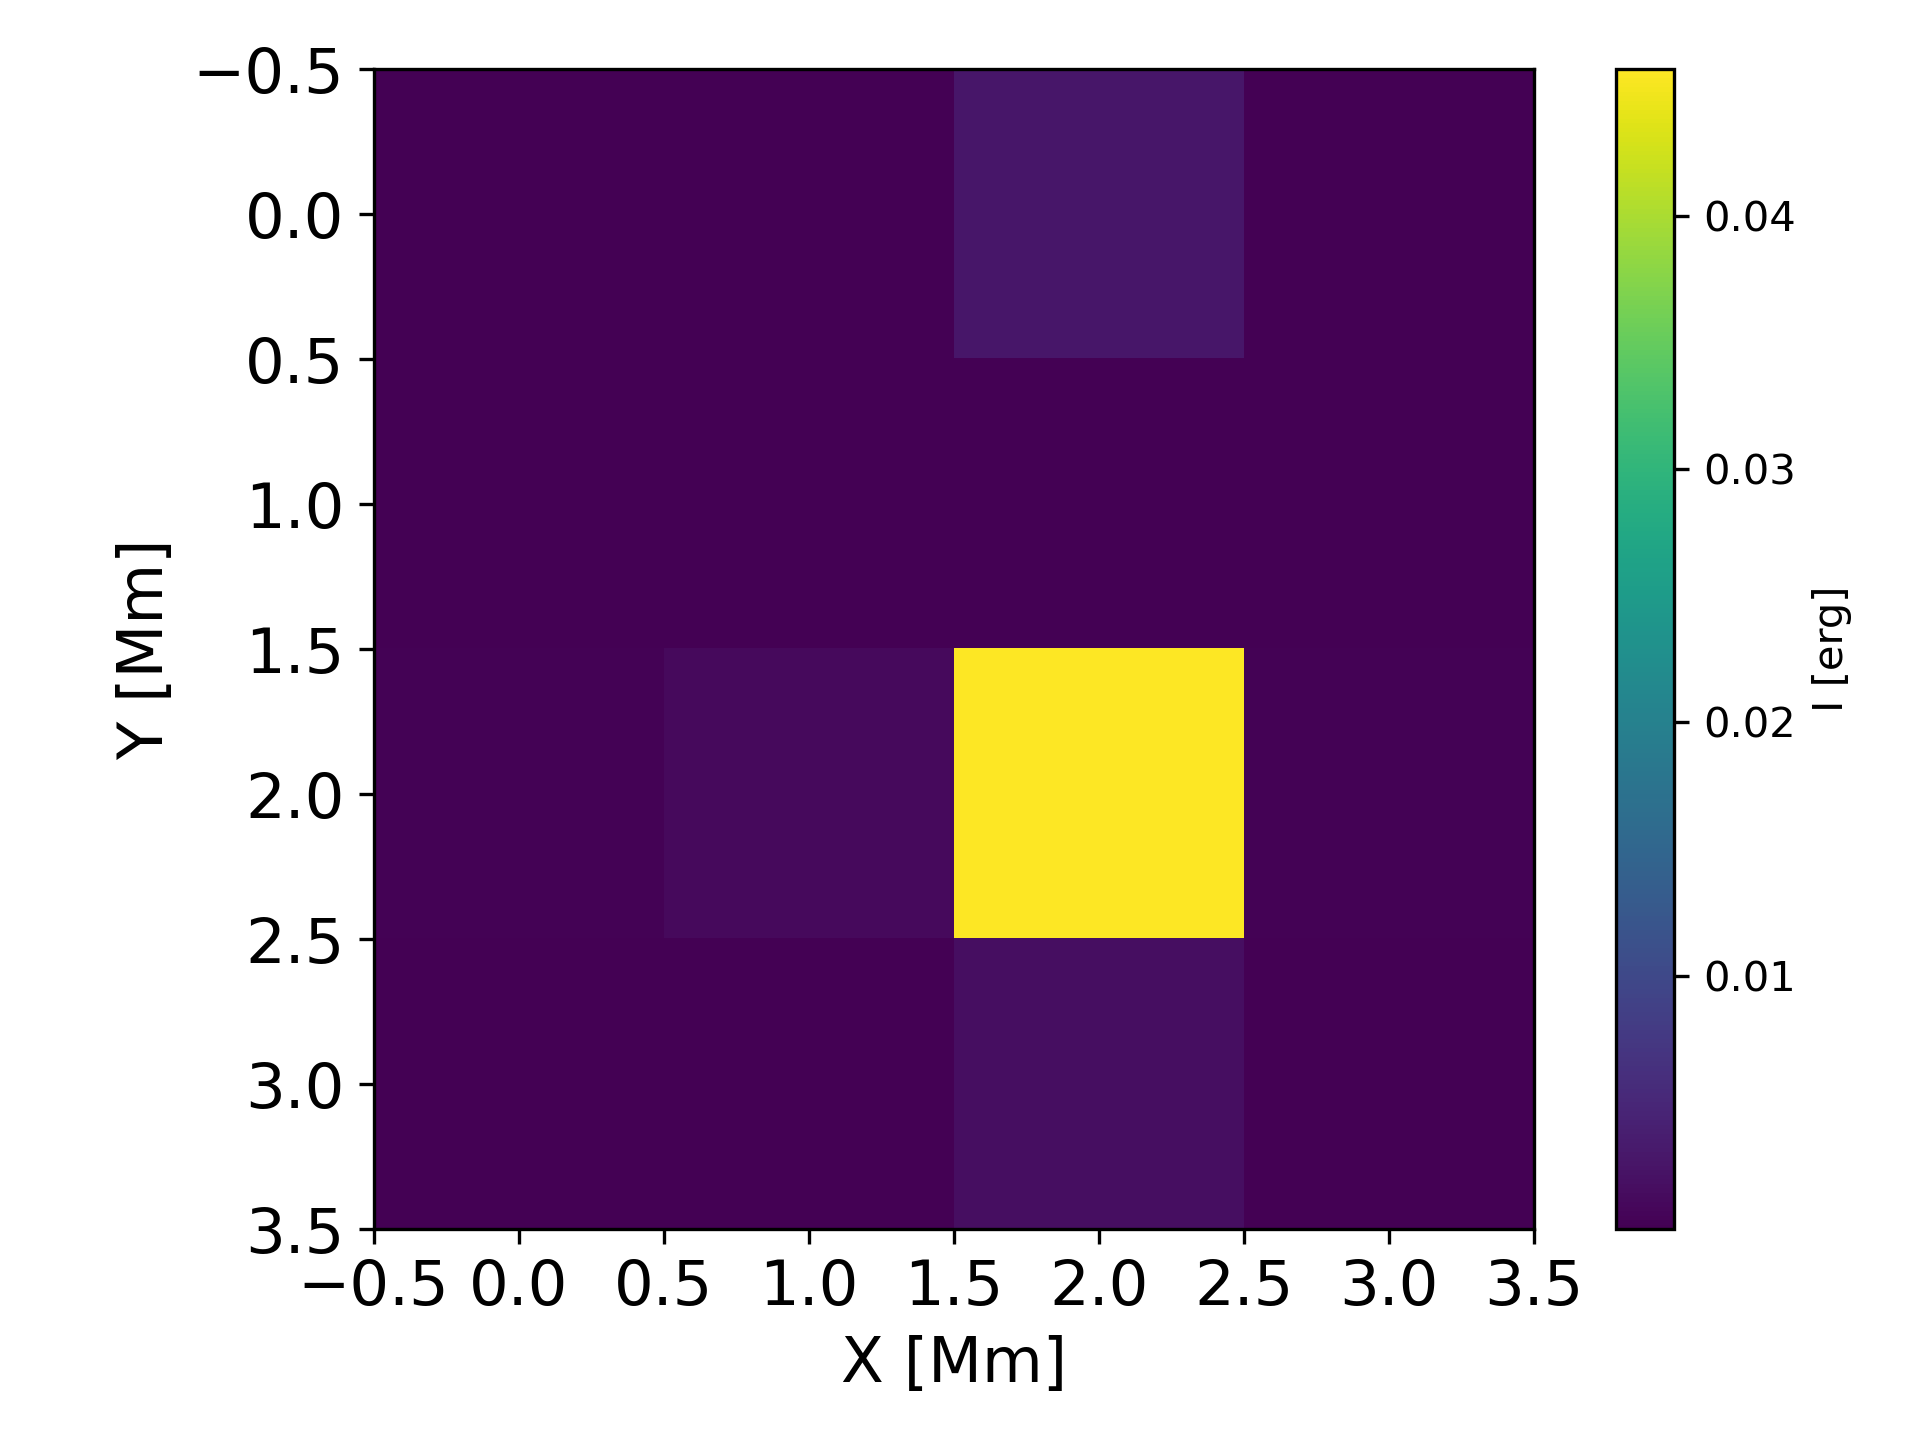
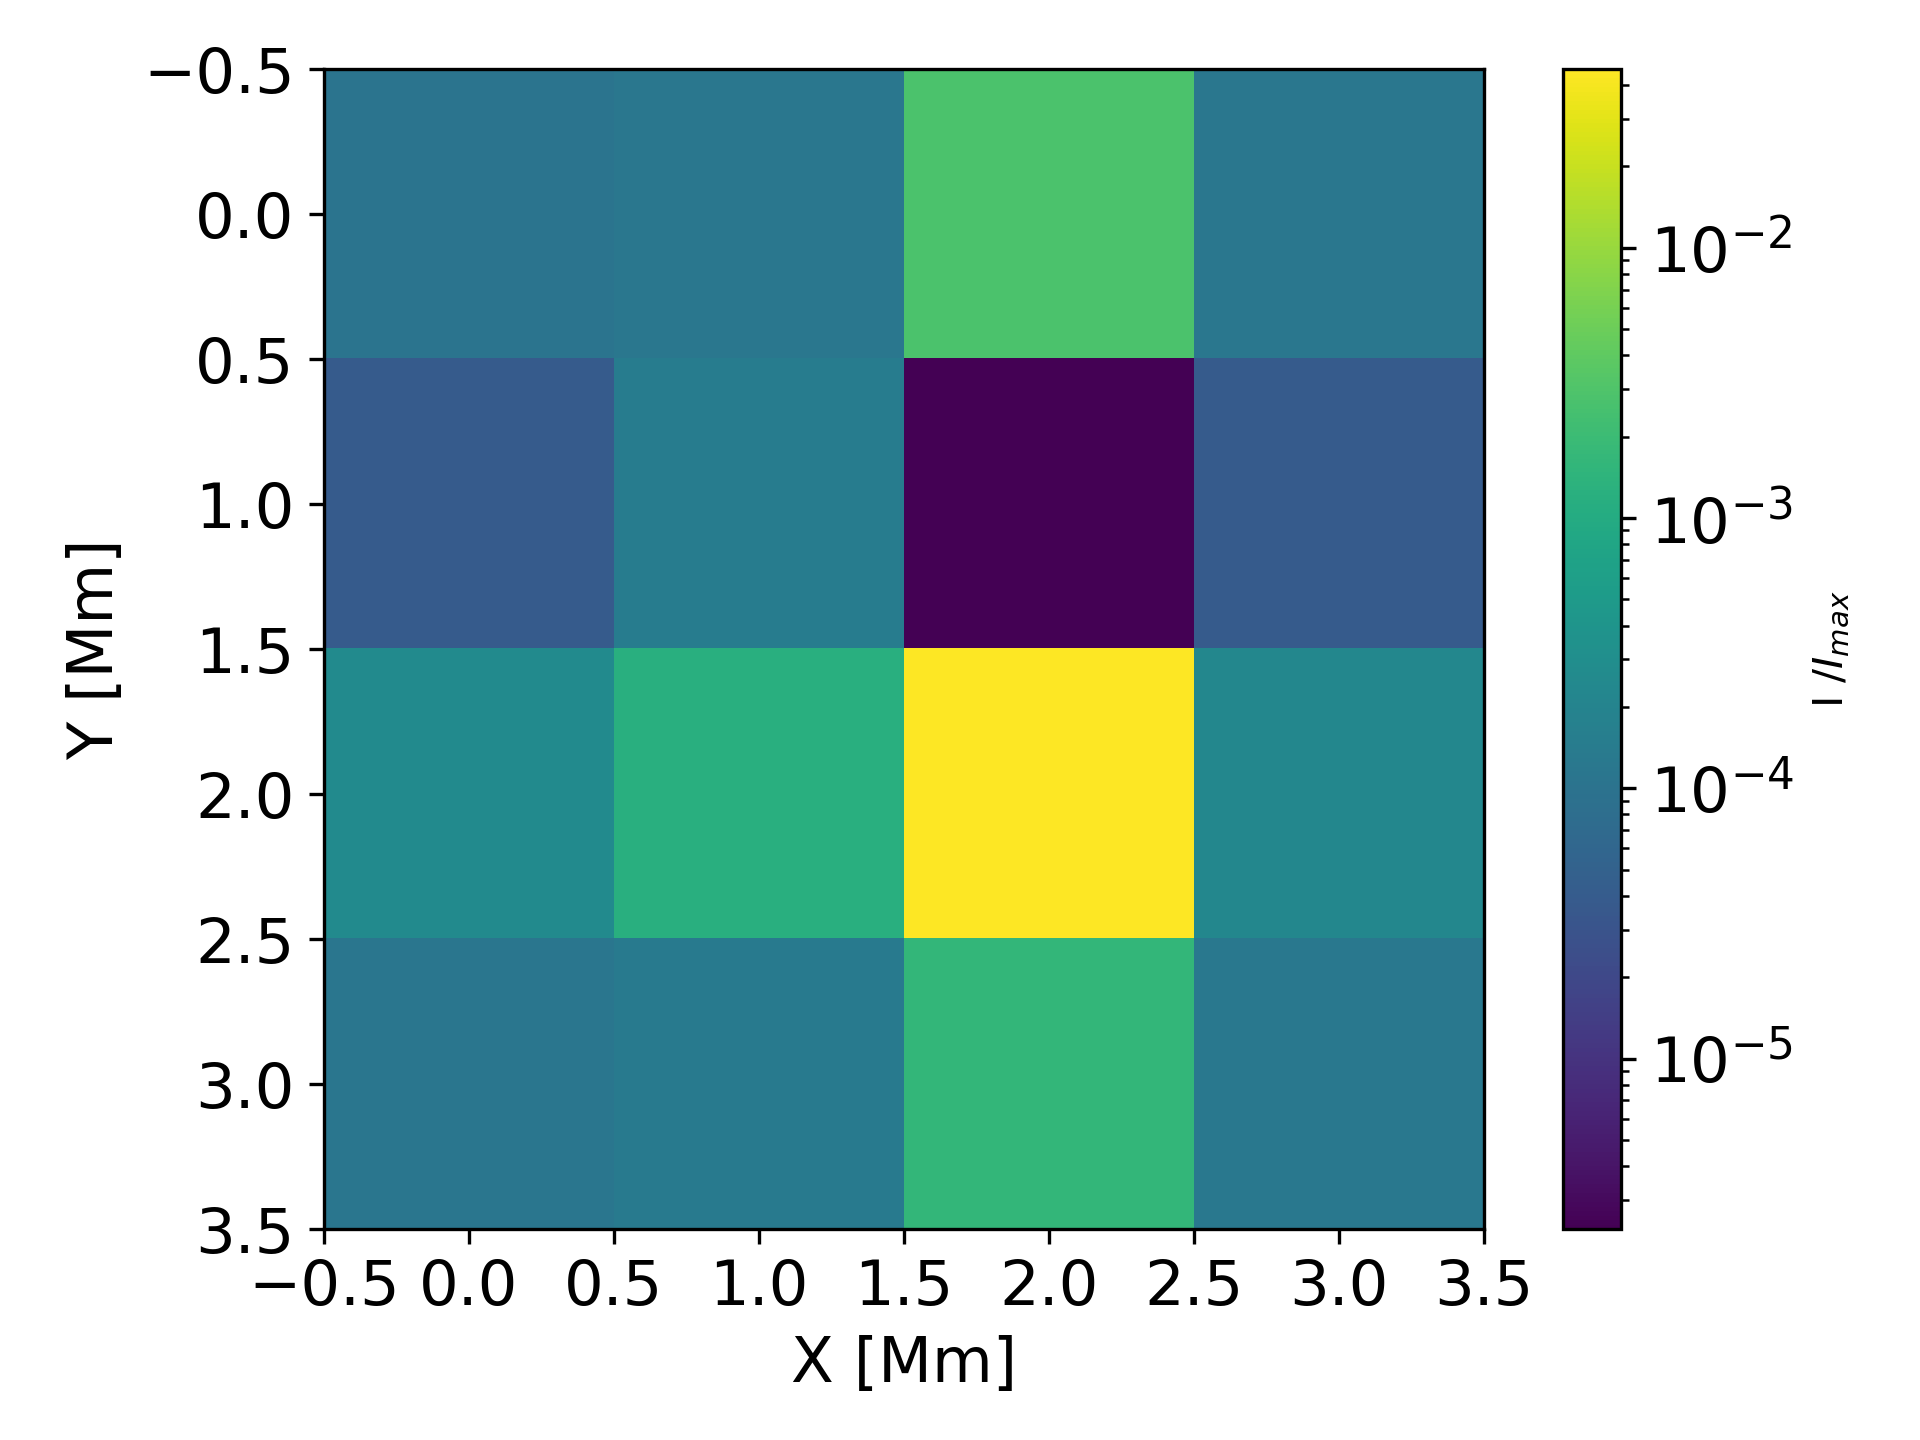
.

diff --git a/plots.py b/plots.py
@@ -291,10 +291,10 @@ if (plot2b):
 if (plot3b):
 
     #Importing from fits
-    N = 16
+    N = 4
     data = fits.getdata(DATADIR+'I_2d_N'+str(N)+'.fits')
     plt.figure()
-    plt.imshow(data, cmap='plasma', norm=colors.LogNorm())
+    plt.imshow(data, cmap='viridis', norm=colors.LogNorm())
     plt.xlabel('X [Mm]',fontsize=15)
     plt.ylabel('Y [Mm]',fontsize=15)
     plt.xticks(fontsize=15)
